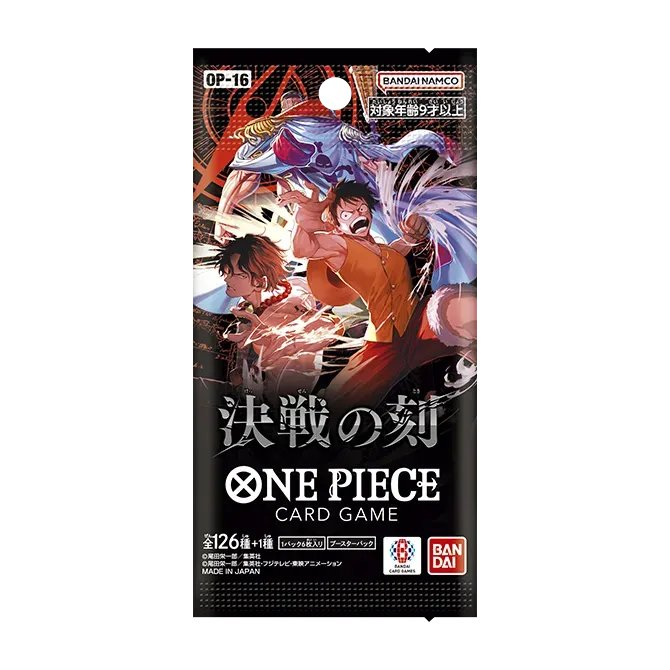
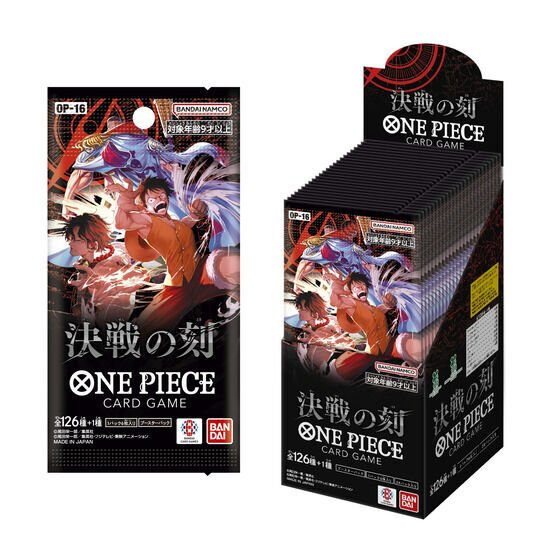
ワンピ版: プレミアムバンダイ公式CDNから箱+パック画像を追加(計7弾)
CDP接続した実Chrome経由でp-bandaiのBOT検出を回避し商品IDを特定→公式CDN
(bandai-a.akamaihd.net)から透かし無しの箱+パック画像を直接取得。
取得済み: OP-16/OP-13/OP-09/OP-06/EB-03/EB-01(p-bandai) + ST-30(公式)の7弾。
OP-16は公式パック単体からp-bandaiの箱+パック版に差し替え。
個別BOXページ・記事heroに反映(画像がある弾のみ)。p-bandaiは現行の抽選/予約弾のみ
掲載で旧弾は無いため、残り16弾は別ソース(手動/Amazon等)が必要。

diff --git a/onepiece/weekly.html b/onepiece/weekly.html
@@ -34,7 +34,7 @@ th{background:#f9fafb}
 <div class="header"><a href="/onepiece"><h1>ワンピ買取チェッカー</h1></a></div>
 <div class="wrap">
 <h2>📊 ワンピBOX 週間値動きランキング</h2>
-<div class="upd">更新: 2026/07/15 05:58 ／ 7日前比・最大11店舗の最高買取価格ベース</div>
+<div class="upd">更新: 2026/07/15 09:13 ／ 7日前比・最大11店舗の最高買取価格ベース</div>
 <table style="width:100%;border-collapse:collapse;font-size:14px"><tr style="background:#f9fafb"><th style="padding:9px;border:1px solid #e5e7eb">#</th><th style="padding:9px;border:1px solid #e5e7eb">商品名</th><th style="padding:9px;border:1px solid #e5e7eb">現在の最高値</th><th style="padding:9px;border:1px solid #e5e7eb">週間変化</th><th style="padding:9px;border:1px solid #e5e7eb">変化率</th></tr><tr><td style="padding:9px;border:1px solid #e5e7eb;text-align:center">1</td><td style="padding:9px;border:1px solid #e5e7eb;text-align:left"><a href="box/op-16.html" style="color:#e53935;text-decoration:none">ブースターパック「決戦の刻」【OP-16】</a></td><td style="padding:9px;border:1px solid #e5e7eb;text-align:center">¥14,000</td><td style="padding:9px;border:1px solid #e5e7eb;text-align:center;color:#6b7280;font-weight:700">-</td><td style="padding:9px;border:1px solid #e5e7eb;text-align:center;color:#6b7280;font-weight:700">0.0%</td></tr><tr><td style="padding:9px;border:1px solid #e5e7eb;text-align:center">2</td><td style="padding:9px;border:1px solid #e5e7eb;text-align:left"><a href="box/op-15.html" style="color:#e53935;text-decoration:none">ブースターパック「神の島の冒険」【OP-15】</a></td><td style="padding:9px;border:1px solid #e5e7eb;text-align:center">¥16,800</td><td style="padding:9px;border:1px solid #e5e7eb;text-align:center;color:#6b7280;font-weight:700">-</td><td style="padding:9px;border:1px solid #e5e7eb;text-align:center;color:#6b7280;font-weight:700">0.0%</td></tr><tr><td style="padding:9px;border:1px solid #e5e7eb;text-align:center">3</td><td style="padding:9px;border:1px solid #e5e7eb;text-align:left"><a href="box/op-14.html" style="color:#e53935;text-decoration:none">ブースターパック「蒼海の七傑」【OP-14】</a></td><td style="padding:9px;border:1px solid #e5e7eb;text-align:center">¥16,300</td><td style="padding:9px;border:1px solid #e5e7eb;text-align:center;color:#6b7280;font-weight:700">-</td><td style="padding:9px;border:1px solid #e5e7eb;text-align:center;color:#6b7280;font-weight:700">0.0%</td></tr><tr><td style="padding:9px;border:1px solid #e5e7eb;text-align:center">4</td><td style="padding:9px;border:1px solid #e5e7eb;text-align:left"><a href="box/op-13.html" style="color:#e53935;text-decoration:none">ブースターパック「受け継がれる意志」【OP-13】</a></td><td style="padding:9px;border:1px solid #e5e7eb;text-align:center">¥23,000</td><td style="padding:9px;border:1px solid #e5e7eb;text-align:center;color:#6b7280;font-weight:700">-</td><td style="padding:9px;border:1px solid #e5e7eb;text-align:center;color:#6b7280;font-weight:700">0.0%</td></tr><tr><td style="padding:9px;border:1px solid #e5e7eb;text-align:center">5</td><td style="padding:9px;border:1px solid #e5e7eb;text-align:left"><a href="box/op-12.html" style="color:#e53935;text-decoration:none">ブースターパック「師弟の絆」【OP-12】</a></td><td style="padding:9px;border:1px solid #e5e7eb;text-align:center">¥17,800</td><td style="padding:9px;border:1px solid #e5e7eb;text-align:center;color:#6b7280;font-weight:700">-</td><td style="padding:9px;border:1px solid #e5e7eb;text-align:center;color:#6b7280;font-weight:700">0.0%</td></tr><tr><td style="padding:9px;border:1px solid #e5e7eb;text-align:center">6</td><td style="padding:9px;border:1px solid #e5e7eb;text-align:left"><a href="box/op-11.html" style="color:#e53935;text-decoration:none">ブースターパック「神速の拳」【OP-11】</a></td><td style="padding:9px;border:1px solid #e5e7eb;text-align:center">¥39,000</td><td style="padding:9px;border:1px solid #e5e7eb;text-align:center;color:#6b7280;font-weight:700">-</td><td style="padding:9px;border:1px solid #e5e7eb;text-align:center;color:#6b7280;font-weight:700">0.0%</td></tr><tr><td style="padding:9px;border:1px solid #e5e7eb;text-align:center">7</td><td style="padding:9px;border:1px solid #e5e7eb;text-align:left"><a href="box/op-10.html" style="color:#e53935;text-decoration:none">ブースターパック「王族の血統」【OP-10】</a></td><td style="padding:9px;border:1px solid #e5e7eb;text-align:center">¥12,000</td><td style="padding:9px;border:1px solid #e5e7eb;text-align:center;color:#6b7280;font-weight:700">-</td><td style="padding:9px;border:1px solid #e5e7eb;text-align:center;color:#6b7280;font-weight:700">0.0%</td></tr><tr><td style="padding:9px;border:1px solid #e5e7eb;text-align:center">8</td><td style="padding:9px;border:1px solid #e5e7eb;text-align:left"><a href="box/op-09.html" style="color:#e53935;text-decoration:none">ブースターパック「新たなる皇帝」【OP-09】</a></td><td style="padding:9px;border:1px solid #e5e7eb;text-align:center">¥22,800</td><td style="padding:9px;border:1px solid #e5e7eb;text-align:center;color:#6b7280;font-weight:700">-</td><td style="padding:9px;border:1px solid #e5e7eb;text-align:center;color:#6b7280;font-weight:700">0.0%</td></tr><tr><td style="padding:9px;border:1px solid #e5e7eb;text-align:center">9</td><td style="padding:9px;border:1px solid #e5e7eb;text-align:left"><a href="box/op-08.html" style="color:#e53935;text-decoration:none">ブースターパック「二つの伝説」【OP-08】</a></td><td style="padding:9px;border:1px solid #e5e7eb;text-align:center">¥11,000</td><td style="padding:9px;border:1px solid #e5e7eb;text-align:center;color:#6b7280;font-weight:700">-</td><td style="padding:9px;border:1px solid #e5e7eb;text-align:center;color:#6b7280;font-weight:700">0.0%</td></tr><tr><td style="padding:9px;border:1px solid #e5e7eb;text-align:center">10</td><td style="padding:9px;border:1px solid #e5e7eb;text-align:left"><a href="box/op-07.html" style="color:#e53935;text-decoration:none">ブースターパック「500年後の未来」【OP-07】</a></td><td style="padding:9px;border:1px solid #e5e7eb;text-align:center">¥20,000</td><td style="padding:9px;border:1px solid #e5e7eb;text-align:center;color:#6b7280;font-weight:700">-</td><td style="padding:9px;border:1px solid #e5e7eb;text-align:center;color:#6b7280;font-weight:700">0.0%</td></tr><tr><td style="padding:9px;border:1px solid #e5e7eb;text-align:center">11</td><td style="padding:9px;border:1px solid #e5e7eb;text-align:left"><a href="box/op-06.html" style="color:#e53935;text-decoration:none">ブースターパック「双璧の覇者」【OP-06】</a></td><td style="padding:9px;border:1px solid #e5e7eb;text-align:center">¥23,200</td><td style="padding:9px;border:1px solid #e5e7eb;text-align:center;color:#6b7280;font-weight:700">-</td><td style="padding:9px;border:1px solid #e5e7eb;text-align:center;color:#6b7280;font-weight:700">0.0%</td></tr><tr><td style="padding:9px;border:1px solid #e5e7eb;text-align:center">12</td><td style="padding:9px;border:1px solid #e5e7eb;text-align:left"><a href="box/op-05.html" style="color:#e53935;text-decoration:none">ブースターパック「新時代の主役」【OP-05】</a></td><td style="padding:9px;border:1px solid #e5e7eb;text-align:center">¥64,800</td><td style="padding:9px;border:1px solid #e5e7eb;text-align:center;color:#6b7280;font-weight:700">-</td><td style="padding:9px;border:1px solid #e5e7eb;text-align:center;color:#6b7280;font-weight:700">0.0%</td></tr><tr><td style="padding:9px;border:1px solid #e5e7eb;text-align:center">13</td><td style="padding:9px;border:1px solid #e5e7eb;text-align:left"><a href="box/op-04.html" style="color:#e53935;text-decoration:none">ブースターパック「謀略の王国」【OP-04】</a></td><td style="padding:9px;border:1px solid #e5e7eb;text-align:center">¥21,000</td><td style="padding:9px;border:1px solid #e5e7eb;text-align:center;color:#6b7280;font-weight:700">-</td><td style="padding:9px;border:1px solid #e5e7eb;text-align:center;color:#6b7280;font-weight:700">0.0%</td></tr><tr><td style="padding:9px;border:1px solid #e5e7eb;text-align:center">14</td><td style="padding:9px;border:1px solid #e5e7eb;text-align:left"><a href="box/op-03.html" style="color:#e53935;text-decoration:none">ブースターパック「強大な敵」【OP-03】</a></td><td style="padding:9px;border:1px solid #e5e7eb;text-align:center">¥18,700</td><td style="padding:9px;border:1px solid #e5e7eb;text-align:center;color:#6b7280;font-weight:700">-</td><td style="padding:9px;border:1px solid #e5e7eb;text-align:center;color:#6b7280;font-weight:700">0.0%</td></tr><tr><td style="padding:9px;border:1px solid #e5e7eb;text-align:center">15</td><td style="padding:9px;border:1px solid #e5e7eb;text-align:left"><a href="box/op-02.html" style="color:#e53935;text-decoration:none">ブースターパック「頂上決戦」【OP-02】</a></td><td style="padding:9px;border:1px solid #e5e7eb;text-align:center">¥25,200</td><td style="padding:9px;border:1px solid #e5e7eb;text-align:center;color:#6b7280;font-weight:700">-</td><td style="padding:9px;border:1px solid #e5e7eb;text-align:center;color:#6b7280;font-weight:700">0.0%</td></tr><tr><td style="padding:9px;border:1px solid #e5e7eb;text-align:center">16</td><td style="padding:9px;border:1px solid #e5e7eb;text-align:left"><a href="box/op-01.html" style="color:#e53935;text-decoration:none">ブースターパック「ROMANCE DAWN」【OP-01】</a></td><td style="padding:9px;border:1px solid #e5e7eb;text-align:center">¥41,500</td><td style="padding:9px;border:1px solid #e5e7eb;text-align:center;color:#6b7280;font-weight:700">-</td><td style="padding:9px;border:1px solid #e5e7eb;text-align:center;color:#6b7280;font-weight:700">0.0%</td></tr><tr><td style="padding:9px;border:1px solid #e5e7eb;text-align:center">17</td><td style="padding:9px;border:1px solid #e5e7eb;text-align:left"><a href="box/eb-04.html" style="color:#e53935;text-decoration:none">エクストラブースター「EGGHEAD CRISIS」【EB-04】</a></td><td style="padding:9px;border:1px solid #e5e7eb;text-align:center">¥14,500</td><td style="padding:9px;border:1px solid #e5e7eb;text-align:center;color:#6b7280;font-weight:700">-</td><td style="padding:9px;border:1px solid #e5e7eb;text-align:center;color:#6b7280;font-weight:700">0.0%</td></tr><tr><td style="padding:9px;border:1px solid #e5e7eb;text-align:center">18</td><td style="padding:9px;border:1px solid #e5e7eb;text-align:left"><a href="box/eb-03.html" style="color:#e53935;text-decoration:none">エクストラブースター「ONE PIECE Heroines Edition」【EB-03】</a></td><td style="padding:9px;border:1px solid #e5e7eb;text-align:center">¥23,000</td><td style="padding:9px;border:1px solid #e5e7eb;text-align:center;color:#6b7280;font-weight:700">-</td><td style="padding:9px;border:1px solid #e5e7eb;text-align:center;color:#6b7280;font-weight:700">0.0%</td></tr><tr><td style="padding:9px;border:1px solid #e5e7eb;text-align:center">19</td><td style="padding:9px;border:1px solid #e5e7eb;text-align:left"><a href="box/eb-02.html" style="color:#e53935;text-decoration:none">エクストラブースター「Anime 25th collection」【EB-02】</a></td><td style="padding:9px;border:1px solid #e5e7eb;text-align:center">¥38,000</td><td style="padding:9px;border:1px solid #e5e7eb;text-align:center;color:#6b7280;font-weight:700">-</td><td style="padding:9px;border:1px solid #e5e7eb;text-align:center;color:#6b7280;font-weight:700">0.0%</td></tr><tr><td style="padding:9px;border:1px solid #e5e7eb;text-align:center">20</td><td style="padding:9px;border:1px solid #e5e7eb;text-align:left"><a href="box/eb-01.html" style="color:#e53935;text-decoration:none">エクストラブースター「メモリアルコレクション」【EB-01】</a></td><td style="padding:9px;border:1px solid #e5e7eb;text-align:center">¥23,000</td><td style="padding:9px;border:1px solid #e5e7eb;text-align:center;color:#6b7280;font-weight:700">-</td><td style="padding:9px;border:1px solid #e5e7eb;text-align:center;color:#6b7280;font-weight:700">0.0%</td></tr><tr><td style="padding:9px;border:1px solid #e5e7eb;text-align:center">21</td><td style="padding:9px;border:1px solid #e5e7eb;text-align:left"><a href="box/prb-02.html" style="color:#e53935;text-decoration:none">プレミアムブースター「ONE PIECE CARD THE BEST vol.2」【PRB-02】</a></td><td style="padding:9px;border:1px solid #e5e7eb;text-align:center">¥11,600</td><td style="padding:9px;border:1px solid #e5e7eb;text-align:center;color:#6b7280;font-weight:700">-</td><td style="padding:9px;border:1px solid #e5e7eb;text-align:center;color:#6b7280;font-weight:700">0.0%</td></tr><tr><td style="padding:9px;border:1px solid #e5e7eb;text-align:center">22</td><td style="padding:9px;border:1px solid #e5e7eb;text-align:left"><a href="box/prb-01.html" style="color:#e53935;text-decoration:none">プレミアムブースター「ONE PIECE CARD THE BEST」【PRB-01】</a></td><td style="padding:9px;border:1px solid #e5e7eb;text-align:center">¥21,700</td><td style="padding:9px;border:1px solid #e5e7eb;text-align:center;color:#6b7280;font-weight:700">-</td><td style="padding:9px;border:1px solid #e5e7eb;text-align:center;color:#6b7280;font-weight:700">0.0%</td></tr><tr><td style="padding:9px;border:1px solid #e5e7eb;text-align:center">23</td><td style="padding:9px;border:1px solid #e5e7eb;text-align:left"><a href="box/st-30.html" style="color:#e53935;text-decoration:none">スタートデッキEX ルフィ＆エース【ST-30】</a></td><td style="padding:9px;border:1px solid #e5e7eb;text-align:center">¥11,000</td><td style="padding:9px;border:1px solid #e5e7eb;text-align:center;color:#6b7280;font-weight:700">-</td><td style="padding:9px;border:1px solid #e5e7eb;text-align:center;color:#6b7280;font-weight:700">0.0%</td></tr></table>
 <a class="back" href="weekly/index.html">📚 過去の週間値動き記事アーカイブ</a>
 <a class="back" href="/onepiece">← ワンピ買取比較に戻る</a>

diff --git a/onepiece/op-09-atari-guide.html b/onepiece/op-09-atari-guide.html
@@ -186,7 +186,7 @@ article li{margin-bottom:8px}
 <h1>【2026年7月最新】ワンピカード「新たなる皇帝」(OP-09)当たりカードランキング｜ロジャー金コミパラの買取相場・封入率を完全ガイド</h1>
 <div class="meta">公開: 2026年7月14日 / ONE PIECEカードゲーム ブースターパック「新たなる皇帝」(OP-09・2024年8月31日発売) / ワンピ買取チェッカー編集部</div>
 
-<div class="hero"><div class="stat-label">看板当たり ゴール・D・ロジャー ゴールドコミックパラレル 買取相場(2026年7月時点)</div><div class="stat-big">約¥550,000</div><div class="stat-sub">2位 モンキー・D・ルフィ コミパラ 約¥250,000 / 3位 マーシャル・D・ティーチ コミパラ 約¥150,000 / 初のゴールド仕様・72BOXに約1枚 / BOX定価¥5,280 / <a href="box/op-09.html" style="color:#b91c1c;font-weight:700">当サイト実データのBOX買取最高¥22,800(9店舗)</a></div></div>
+<div class="hero" style="display:flex;gap:18px;align-items:center"><picture><source srcset="/images/boxes/op-09.webp" type="image/webp"><img src="/images/boxes/op-09.jpg" alt="ブースターパック「新たなる皇帝」(OP-09) パッケージ画像" width="150" height="150" loading="eager" decoding="async" style="width:130px;height:auto;border-radius:8px;flex-shrink:0"></picture><div><div class="stat-label">看板当たり ゴール・D・ロジャー ゴールドコミックパラレル 買取相場(2026年7月時点)</div><div class="stat-big">約¥550,000</div><div class="stat-sub">2位 モンキー・D・ルフィ コミパラ 約¥250,000 / 3位 マーシャル・D・ティーチ コミパラ 約¥150,000 / 初のゴールド仕様・72BOXに約1枚 / BOX定価¥5,280 / <a href="box/op-09.html" style="color:#b91c1c;font-weight:700">当サイト実データのBOX買取最高¥22,800(9店舗)</a></div></div></div>
 
 <p>2024年8月31日発売の <strong><a href="box/op-09.html" style="color:var(--accent)">ブースターパック「新たなる皇帝」(OP-09)</a></strong> は、2周年を記念し、新四皇のコミパラが一挙4種、さらにゴール・D・ロジャーのゴールドコミパラが登場した通常ブースター第9弾です。本記事では、<strong>当たりカードのランキング・買取相場・封入率・見分け方</strong>を、複数ソースと当サイトの実データをもとに整理します。BOXの最新買取価格は <a href="box/op-09.html">新たなる皇帝 個別ページ</a> で毎日更新しています。</p><h2>新たなる皇帝(OP-09)とは｜基本情報</h2><ul><li><strong>発売日</strong>: 2024年8月31日</li><li><strong>定価</strong>: 1BOX ¥5,280(税込) / 1パック6枚・24パック入り</li><li><strong>型番</strong>: OP-09(通常ブースター第9弾)</li><li><strong>看板(最高額)</strong>: ゴール・D・ロジャー ゴールドコミックパラレル</li><li><strong>現在のBOX買取相場</strong>: 当サイト実データで最高¥22,800(9店舗掲載・2026年7月時点)</li></ul><p>初のゴールド仕様である海賊王ロジャーのコミパラが別格で、新四皇のコミパラも高額に揃う豪華弾です。</p><h2>当たりカードランキング｜買取相場の目安(2026年7月時点)</h2><table class="price-table"><thead><tr><th>順位</th><th>カード名</th><th>レアリティ</th><th style="text-align:right">買取相場の目安</th></tr></thead><tbody><tr class="best"><td>1位</td><td>ゴール・D・ロジャー</td><td>ゴールドコミックパラレル</td><td class="price">約¥550,000</td></tr><tr><td>2位</td><td>モンキー・D・ルフィ</td><td>コミックパラレル</td><td class="price">約¥250,000</td></tr><tr><td>3位</td><td>マーシャル・D・ティーチ</td><td>コミックパラレル</td><td class="price">約¥150,000</td></tr><tr><td>4位</td><td>シャンクス</td><td>コミックパラレル</td><td class="price">約¥120,000</td></tr><tr><td>5位</td><td>ゴール・D・ロジャー</td><td>SP</td><td class="price">約¥15,000</td></tr></tbody></table><p>※相場は需給で日々変動します。BOX価格の最新値は<a href="box/op-09.html">新たなる皇帝 個別ページ</a>で毎日追っています。</p><h2>看板当たり「ゴール・D・ロジャー ゴールドコミックパラレル」</h2><p>初のゴールド仕様・封入極小の <strong>ロジャー ゴールドコミパラ</strong> は別格の存在で、買取相場は <strong>約¥550,000前後(目安32〜80万円と幅が大きい)</strong>。海賊王の人気と超低封入が重なった一枚です。</p><h2>封入率まとめ</h2><ul><li><strong>コミックパラレル(全5種)</strong>: おおよそ6カートン(約72BOX)に約1枚</li><li><strong>ロジャー ゴールドコミパラ</strong>: さらに希少な72BOXに約1枚級の超低封入</li><li><strong>SP・パラレル</strong>: 一定数封入</li></ul><p>※封入率はカードショップ等の大量開封報告に基づく推定値で、公式発表ではありません。新四皇コミパラ4種＋ロジャー金と高額枠が多く、狙いの1種の自引きは困難です。</p><h2>当たりの見分け方｜開封のポイント</h2><div class="callout"><strong>結論:</strong> パックは外から中身を見分ける方法は基本的にありません。パックの重さでの判別は不確実で、<strong>店頭での測定はマナー違反</strong>です。</div><p>開封後は、<strong>ゴールド/通常のコミックパラレル(漫画のコマ風の全面イラスト)・SP</strong>でレアリティを判別します。看板のゴール・D・ロジャー ゴールドコミックパラレルなどに該当するかを、カードのレアリティ表記とあわせて確認しましょう。</p><h2>開封すべき？BOX開封の期待値と注意点</h2><p>ロジャー金コミパラや新四皇コミパラは超高額な一方、封入率は約72BOXに1枚の狭き門です。未開封BOXの買取相場は当サイト実データで <strong>最高¥22,800（定価¥5,280の約4.3倍）</strong> です。確実に価値を取りたいなら <a href="box/op-09.html">最高値の買取店で未開封のまま売る</a> のが堅実。自引きの夢に賭けて開封を楽しむか、未開封で確実に利益を取るかを踏まえて判断しましょう。</p>
 

diff --git a/onepiece/eb-01-atari-guide.html b/onepiece/eb-01-atari-guide.html
@@ -186,7 +186,7 @@ article li{margin-bottom:8px}
 <h1>【2026年7月最新】ワンピカード「メモリアルコレクション」(EB-01)当たりカードランキング｜チョッパー コミパラの買取相場・封入率を完全ガイド</h1>
 <div class="meta">公開: 2026年7月14日 / ONE PIECEカードゲーム エクストラブースター「メモリアルコレクション」(EB-01・2024年1月27日発売) / ワンピ買取チェッカー編集部</div>
 
-<div class="hero"><div class="stat-label">看板当たり トニートニー・チョッパー コミックパラレル 買取相場(2026年7月時点)</div><div class="stat-big">約¥100,000</div><div class="stat-sub">唯一のコミパラ(チョッパー1種)自引き約0.85%(117BOXに1枚) / 2位 しらほし SR-P 約¥6,000 / 3位 Mr.2ボン・クレー SEC 約¥5,000 / BOX定価¥5,280 / <a href="box/eb-01.html" style="color:#b91c1c;font-weight:700">当サイト実データのBOX買取最高¥23,000(9店舗)</a></div></div>
+<div class="hero" style="display:flex;gap:18px;align-items:center"><picture><source srcset="/images/boxes/eb-01.webp" type="image/webp"><img src="/images/boxes/eb-01.jpg" alt="エクストラブースター「メモリアルコレクション」(EB-01) パッケージ画像" width="150" height="150" loading="eager" decoding="async" style="width:130px;height:auto;border-radius:8px;flex-shrink:0"></picture><div><div class="stat-label">看板当たり トニートニー・チョッパー コミックパラレル 買取相場(2026年7月時点)</div><div class="stat-big">約¥100,000</div><div class="stat-sub">唯一のコミパラ(チョッパー1種)自引き約0.85%(117BOXに1枚) / 2位 しらほし SR-P 約¥6,000 / 3位 Mr.2ボン・クレー SEC 約¥5,000 / BOX定価¥5,280 / <a href="box/eb-01.html" style="color:#b91c1c;font-weight:700">当サイト実データのBOX買取最高¥23,000(9店舗)</a></div></div></div>
 
 <p>2024年1月27日発売の <strong><a href="box/eb-01.html" style="color:var(--accent)">エクストラブースター「メモリアルコレクション」(EB-01)</a></strong> は、初のエクストラブースターで、トニートニー・チョッパーのコミパラが唯一の高額枠となった再録系ブースターです。本記事では、<strong>当たりカードのランキング・買取相場・封入率・見分け方</strong>を、複数ソースと当サイトの実データをもとに整理します。BOXの最新買取価格は <a href="box/eb-01.html">メモリアルコレクション 個別ページ</a> で毎日更新しています。</p><h2>メモリアルコレクション(EB-01)とは｜基本情報</h2><ul><li><strong>発売日</strong>: 2024年1月27日</li><li><strong>定価</strong>: 1BOX ¥5,280(税込)</li><li><strong>型番</strong>: EB-01(エクストラブースター第1弾)</li><li><strong>看板(最高額)</strong>: トニートニー・チョッパー コミックパラレル</li><li><strong>現在のBOX買取相場</strong>: 当サイト実データで最高¥23,000(9店舗掲載・2026年7月時点)</li></ul><p>初のエクストラブースターで、唯一のコミパラであるチョッパーが実質的なトップレア。人気キャラで相場も高めです。</p><h2>当たりカードランキング｜買取相場の目安(2026年7月時点)</h2><table class="price-table"><thead><tr><th>順位</th><th>カード名</th><th>レアリティ</th><th style="text-align:right">買取相場の目安</th></tr></thead><tbody><tr class="best"><td>1位</td><td>トニートニー・チョッパー</td><td>コミックパラレル(SP)</td><td class="price">約¥100,000</td></tr><tr><td>2位</td><td>しらほし</td><td>SR-P</td><td class="price">約¥6,000</td></tr><tr><td>3位</td><td>Mr.2ボン・クレー</td><td>SEC</td><td class="price">約¥5,000</td></tr><tr><td>4位</td><td>トニートニー・チョッパー</td><td>リーダーパラレル</td><td class="price">約¥4,000</td></tr><tr><td>5位</td><td>ナミ</td><td>パラレル</td><td class="price">約¥2,500</td></tr></tbody></table><p>※相場は需給で日々変動します。BOX価格の最新値は<a href="box/eb-01.html">メモリアルコレクション 個別ページ</a>で毎日追っています。</p><h2>看板当たり「トニートニー・チョッパー コミックパラレル」</h2><p>実質チョッパー一強の高額枠 <strong>チョッパー コミックパラレル</strong> は、買取相場 <strong>約¥100,000前後(初動は10万円超・変動大)</strong>。人気キャラで需要が安定します。</p><h2>封入率まとめ</h2><ul><li><strong>コミックパラレル(チョッパー1種)</strong>: おおよそ約0.85%(約117BOXに1枚)</li><li><strong>リーダーパラレル</strong>: おおよそ約14.58%(約6.9BOXに1枚)</li><li><strong>SEC・SR-P</strong>: 一定数封入</li></ul><p>※封入率はカードショップ等の大量開封報告に基づく推定値で、公式発表ではありません。コミパラはチョッパー1種のため、自引き確率がそのまま約0.85%です。</p><h2>当たりの見分け方｜開封のポイント</h2><div class="callout"><strong>結論:</strong> パックは外から中身を見分ける方法は基本的にありません。パックの重さでの判別は不確実で、<strong>店頭での測定はマナー違反</strong>です。</div><p>開封後は、<strong>コミックパラレル(漫画のコマ風の全面イラスト)・SEC/SR-P</strong>でレアリティを判別します。看板のトニートニー・チョッパー コミックパラレルなどに該当するかを、カードのレアリティ表記とあわせて確認しましょう。</p><h2>開封すべき？BOX開封の期待値と注意点</h2><p>チョッパー コミパラは唯一の高額枠で低封入。再録系のため他のカードは相場が読みやすい面もあります。未開封BOXの買取相場は当サイト実データで <strong>最高¥23,000（定価¥5,280の約4.4倍）</strong> です。確実に価値を取りたいなら <a href="box/eb-01.html">最高値の買取店で未開封のまま売る</a> のが堅実。自引きの夢に賭けて開封を楽しむか、未開封で確実に利益を取るかを踏まえて判断しましょう。</p>
 

diff --git a/onepiece/op-06-atari-guide.html b/onepiece/op-06-atari-guide.html
@@ -186,7 +186,7 @@ article li{margin-bottom:8px}
 <h1>【2026年7月最新】ワンピカード「双璧の覇者」(OP-06)当たりカードランキング｜ゾロ コミパラの買取相場・封入率を完全ガイド</h1>
 <div class="meta">公開: 2026年7月14日 / ONE PIECEカードゲーム ブースターパック「双璧の覇者」(OP-06・2023年11月25日発売) / ワンピ買取チェッカー編集部</div>
 
-<div class="hero"><div class="stat-label">看板当たり ロロノア・ゾロ コミックパラレル 買取相場(2026年7月時点)</div><div class="stat-big">約¥250,000</div><div class="stat-sub">2位 レベッカ SP 約¥13,500 / 3位 ニコ・ロビン SP 約¥12,000 / 麦わら双璧の看板コミパラ / BOX定価¥5,280 / <a href="box/op-06.html" style="color:#b91c1c;font-weight:700">当サイト実データのBOX買取最高¥23,200(8店舗)</a></div></div>
+<div class="hero" style="display:flex;gap:18px;align-items:center"><picture><source srcset="/images/boxes/op-06.webp" type="image/webp"><img src="/images/boxes/op-06.jpg" alt="ブースターパック「双璧の覇者」(OP-06) パッケージ画像" width="150" height="150" loading="eager" decoding="async" style="width:130px;height:auto;border-radius:8px;flex-shrink:0"></picture><div><div class="stat-label">看板当たり ロロノア・ゾロ コミックパラレル 買取相場(2026年7月時点)</div><div class="stat-big">約¥250,000</div><div class="stat-sub">2位 レベッカ SP 約¥13,500 / 3位 ニコ・ロビン SP 約¥12,000 / 麦わら双璧の看板コミパラ / BOX定価¥5,280 / <a href="box/op-06.html" style="color:#b91c1c;font-weight:700">当サイト実データのBOX買取最高¥23,200(8店舗)</a></div></div></div>
 
 <p>2023年11月25日発売の <strong><a href="box/op-06.html" style="color:var(--accent)">ブースターパック「双璧の覇者」(OP-06)</a></strong> は、麦わらの一味の両翼「ゾロ」と「サンジ」をテーマにした通常ブースター第6弾です。本記事では、<strong>当たりカードのランキング・買取相場・封入率・見分け方</strong>を、複数ソースと当サイトの実データをもとに整理します。BOXの最新買取価格は <a href="box/op-06.html">双璧の覇者 個別ページ</a> で毎日更新しています。</p><h2>双璧の覇者(OP-06)とは｜基本情報</h2><ul><li><strong>発売日</strong>: 2023年11月25日</li><li><strong>定価</strong>: 1BOX ¥5,280(税込) / 1パック6枚・24パック入り</li><li><strong>型番</strong>: OP-06(通常ブースター第6弾)</li><li><strong>看板(最高額)</strong>: ロロノア・ゾロ コミックパラレル</li><li><strong>現在のBOX買取相場</strong>: 当サイト実データで最高¥23,200(8店舗掲載・2026年7月時点)</li></ul><p>麦わら双璧の看板であるゾロのコミパラは弾のトップレアで、絶版化もあり高値で推移しています。</p><h2>当たりカードランキング｜買取相場の目安(2026年7月時点)</h2><table class="price-table"><thead><tr><th>順位</th><th>カード名</th><th>レアリティ</th><th style="text-align:right">買取相場の目安</th></tr></thead><tbody><tr class="best"><td>1位</td><td>ロロノア・ゾロ</td><td>コミックパラレル(SP)</td><td class="price">約¥250,000</td></tr><tr><td>2位</td><td>レベッカ</td><td>SP</td><td class="price">約¥13,500</td></tr><tr><td>3位</td><td>ニコ・ロビン</td><td>SP</td><td class="price">約¥12,000</td></tr><tr><td>4位</td><td>ロロノア・ゾロ</td><td>リーダーパラレル</td><td class="price">約¥6,000</td></tr><tr><td>5位</td><td>サンジ</td><td>パラレル</td><td class="price">約¥4,000</td></tr></tbody></table><p>※相場は需給で日々変動します。BOX価格の最新値は<a href="box/op-06.html">双璧の覇者 個別ページ</a>で毎日追っています。</p><h2>看板当たり「ロロノア・ゾロ コミックパラレル」</h2><p>麦わら双璧の看板 <strong>ゾロ コミックパラレル</strong> は、買取相場 <strong>約¥250,000前後(目安18〜29.8万円)</strong> で弾トップ。剣士ゾロの高い人気を反映した相場です。</p><h2>封入率まとめ</h2><ul><li><strong>コミックパラレル(ゾロ)</strong>: 最希少級の超低封入</li><li><strong>SP</strong>: 描き下ろし枠として一定数封入</li><li><strong>リーダーパラレル・パラレル</strong>: 一定数封入</li></ul><p>※封入率はカードショップ等の大量開封報告に基づく推定値で、公式発表ではありません。ゾロ コミパラは極めて低い封入率とされます。</p><h2>当たりの見分け方｜開封のポイント</h2><div class="callout"><strong>結論:</strong> パックは外から中身を見分ける方法は基本的にありません。パックの重さでの判別は不確実で、<strong>店頭での測定はマナー違反</strong>です。</div><p>開封後は、<strong>コミックパラレル(漫画のコマ風の全面イラスト)・SP(描き下ろし)</strong>でレアリティを判別します。看板のロロノア・ゾロ コミックパラレルなどに該当するかを、カードのレアリティ表記とあわせて確認しましょう。</p><h2>開封すべき？BOX開封の期待値と注意点</h2><p>ゾロ コミパラは超高額な一方、封入率は極めて低い狭き門です。絶版BOXのため未開封の価値も高めです。未開封BOXの買取相場は当サイト実データで <strong>最高¥23,200（定価¥5,280の約4.4倍）</strong> です。確実に価値を取りたいなら <a href="box/op-06.html">最高値の買取店で未開封のまま売る</a> のが堅実。自引きの夢に賭けて開封を楽しむか、未開封で確実に利益を取るかを踏まえて判断しましょう。</p>
 

diff --git a/onepiece/op-13-atari-guide.html b/onepiece/op-13-atari-guide.html
@@ -186,7 +186,7 @@ article li{margin-bottom:8px}
 <h1>【2026年7月最新】ワンピカード「受け継がれる意志」(OP-13)当たりカードランキング｜ルフィ レッドコミパラの買取相場・封入率を完全ガイド</h1>
 <div class="meta">公開: 2026年7月14日 / ONE PIECEカードゲーム ブースターパック「受け継がれる意志」(OP-13・2025年8月23日発売) / ワンピ買取チェッカー編集部</div>
 
-<div class="hero"><div class="stat-label">看板当たり モンキー・D・ルフィ レッドコミパラ 買取相場(2026年7月時点)</div><div class="stat-big">約¥1,700,000</div><div class="stat-sub">2位 ポートガス・D・エース レッドコミパラ 約¥600,000 / 3位 サボ レッドコミパラ 約¥380,000 / 新レア「レッドスーパーパラレル」登場・ゴッドパック収録 / BOX定価¥5,280 / <a href="box/op-13.html" style="color:#b91c1c;font-weight:700">当サイト実データのBOX買取最高¥23,000(9店舗)</a></div></div>
+<div class="hero" style="display:flex;gap:18px;align-items:center"><picture><source srcset="/images/boxes/op-13.webp" type="image/webp"><img src="/images/boxes/op-13.jpg" alt="ブースターパック「受け継がれる意志」(OP-13) パッケージ画像" width="150" height="150" loading="eager" decoding="async" style="width:130px;height:auto;border-radius:8px;flex-shrink:0"></picture><div><div class="stat-label">看板当たり モンキー・D・ルフィ レッドコミパラ 買取相場(2026年7月時点)</div><div class="stat-big">約¥1,700,000</div><div class="stat-sub">2位 ポートガス・D・エース レッドコミパラ 約¥600,000 / 3位 サボ レッドコミパラ 約¥380,000 / 新レア「レッドスーパーパラレル」登場・ゴッドパック収録 / BOX定価¥5,280 / <a href="box/op-13.html" style="color:#b91c1c;font-weight:700">当サイト実データのBOX買取最高¥23,000(9店舗)</a></div></div></div>
 
 <p>2025年8月23日発売の <strong><a href="box/op-13.html" style="color:var(--accent)">ONE PIECEカードゲーム ブースターパック「受け継がれる意志」(OP-13)</a></strong> は、3周年を記念した通常ブースター第13弾です。新レアリティ<strong>「レッドスーパーパラレル(レッドコミパラ)」</strong>が登場し、ルフィ・エース・サボの"ASL兄弟"が超高額カードとして君臨しています。さらに、まれに封入される<strong>「ゴッドパック」</strong>も大きな話題となりました。本記事では、<strong>当たりカードのランキング・買取相場・封入率・見分け方</strong>を実データで整理します。BOXの最新買取価格は <a href="box/op-13.html">受け継がれる意志 個別ページ</a> で毎日更新しています。</p>
 

diff --git a/onepiece/eb-03-atari-guide.html b/onepiece/eb-03-atari-guide.html
@@ -186,7 +186,7 @@ article li{margin-bottom:8px}
 <h1>【2026年7月最新】ワンピカード「ONE PIECE Heroines Edition」(EB-03)当たりカードランキング｜ウタ コミパラの買取相場・封入率を完全ガイド</h1>
 <div class="meta">公開: 2026年7月14日 / ONE PIECEカードゲーム エクストラブースター「ONE PIECE Heroines Edition」(EB-03・2025年10月25日発売) / ワンピ買取チェッカー編集部</div>
 
-<div class="hero"><div class="stat-label">看板当たり ウタ SEC コミックパラレル 買取相場(2026年7月時点)</div><div class="stat-big">約¥70,000</div><div class="stat-sub">唯一のコミパラ(ウタ1種)6カートンに1枚 / SP枠 ボア・ハンコック/ウタ/ナミ(発売初動は各10〜20万円台の高値→調整) / 女性キャラ特集の再録系ブースター / BOX定価¥5,280 / <a href="box/eb-03.html" style="color:#b91c1c;font-weight:700">当サイト実データのBOX買取最高¥23,000(9店舗)</a></div></div>
+<div class="hero" style="display:flex;gap:18px;align-items:center"><picture><source srcset="/images/boxes/eb-03.webp" type="image/webp"><img src="/images/boxes/eb-03.jpg" alt="エクストラブースター「ONE PIECE Heroines Edition」(EB-03) パッケージ画像" width="150" height="150" loading="eager" decoding="async" style="width:130px;height:auto;border-radius:8px;flex-shrink:0"></picture><div><div class="stat-label">看板当たり ウタ SEC コミックパラレル 買取相場(2026年7月時点)</div><div class="stat-big">約¥70,000</div><div class="stat-sub">唯一のコミパラ(ウタ1種)6カートンに1枚 / SP枠 ボア・ハンコック/ウタ/ナミ(発売初動は各10〜20万円台の高値→調整) / 女性キャラ特集の再録系ブースター / BOX定価¥5,280 / <a href="box/eb-03.html" style="color:#b91c1c;font-weight:700">当サイト実データのBOX買取最高¥23,000(9店舗)</a></div></div></div>
 
 <p>2025年10月25日発売の <strong><a href="box/eb-03.html" style="color:var(--accent)">ONE PIECEカードゲーム エクストラブースター「ONE PIECE Heroines Edition」(EB-03)</a></strong> は、女性キャラクターを特集した再録系エクストラブースター第3弾です。唯一の新規コミパラ<strong>「ウタ(SEC)」</strong>が実質的なトップレアで、ボア・ハンコック・ウタ・ナミのSPも人気枠です。本記事では、<strong>当たりカードのランキング・買取相場・封入率・見分け方</strong>を実データで整理します。BOXの最新買取価格は <a href="box/eb-03.html">Heroines Edition 個別ページ</a> で毎日更新しています。</p>
 

diff --git a/onepiece/box/eb-01.html b/onepiece/box/eb-01.html
@@ -97,8 +97,8 @@ body{font-family:-apple-system,BlinkMacSystemFont,"メイリオ","Hiragino Sans"
 <div class="breadcrumb"><a href="/">ホーム</a> &gt; <a href="/onepiece">ワンピ買取チェッカー</a> &gt; エクストラブースター「メモリアルコレクション」【EB-01】</div>
 <div class="main-card">
 <h2>エクストラブースター「メモリアルコレクション」【EB-01】</h2>
-<div class="meta"><span>更新: 2026/07/15 05:58</span><span>エクストラブースター</span></div>
-
+<div class="meta"><span>更新: 2026/07/15 09:13</span><span>エクストラブースター</span></div>
+<div style="text-align:center;margin:4px 0 18px"><picture><source srcset="/images/boxes/eb-01.webp" type="image/webp"><img src="/images/boxes/eb-01.jpg" alt="エクストラブースター「メモリアルコレクション」【EB-01】 パッケージ画像 買取価格比較" width="240" height="240" loading="lazy" decoding="async" style="max-width:240px;width:60%;height:auto;border-radius:8px"></picture></div>
 
 <p class="product-desc">エクストラブースター第1弾。初のエクストラブースター。</p>
 

diff --git a/onepiece/box/eb-03.html b/onepiece/box/eb-03.html
@@ -97,8 +97,8 @@ body{font-family:-apple-system,BlinkMacSystemFont,"メイリオ","Hiragino Sans"
 <div class="breadcrumb"><a href="/">ホーム</a> &gt; <a href="/onepiece">ワンピ買取チェッカー</a> &gt; エクストラブースター「ONE PIECE Heroines Edition」【EB-03】</div>
 <div class="main-card">
 <h2>エクストラブースター「ONE PIECE Heroines Edition」【EB-03】</h2>
-<div class="meta"><span>更新: 2026/07/15 05:58</span><span>エクストラブースター</span></div>
-
+<div class="meta"><span>更新: 2026/07/15 09:13</span><span>エクストラブースター</span></div>
+<div style="text-align:center;margin:4px 0 18px"><picture><source srcset="/images/boxes/eb-03.webp" type="image/webp"><img src="/images/boxes/eb-03.jpg" alt="エクストラブースター「ONE PIECE Heroines Edition」【EB-03】 パッケージ画像 買取価格比較" width="240" height="240" loading="lazy" decoding="async" style="max-width:240px;width:60%;height:auto;border-radius:8px"></picture></div>
 
 <p class="product-desc">エクストラブースター第3弾。女性キャラを特集した再録系ブースター。</p>
 

diff --git a/onepiece/box/op-16.html b/onepiece/box/op-16.html
@@ -97,7 +97,7 @@ body{font-family:-apple-system,BlinkMacSystemFont,"メイリオ","Hiragino Sans"
 <div class="breadcrumb"><a href="/">ホーム</a> &gt; <a href="/onepiece">ワンピ買取チェッカー</a> &gt; ブースターパック「決戦の刻」【OP-16】</div>
 <div class="main-card">
 <h2>ブースターパック「決戦の刻」【OP-16】</h2>
-<div class="meta"><span>更新: 2026/07/15 05:58</span><span>通常ブースター</span></div>
+<div class="meta"><span>更新: 2026/07/15 09:13</span><span>通常ブースター</span></div>
 <div style="text-align:center;margin:4px 0 18px"><picture><source srcset="/images/boxes/op-16.webp" type="image/webp"><img src="/images/boxes/op-16.jpg" alt="ブースターパック「決戦の刻」【OP-16】 パッケージ画像 買取価格比較" width="240" height="240" loading="lazy" decoding="async" style="max-width:240px;width:60%;height:auto;border-radius:8px"></picture></div>
 
 <p class="product-desc">通常ブースター第16弾。パラマウント戦争(頂上戦争)がテーマ。日本版に『トレジャーレア』が登場した弾。</p>

diff --git a/onepiece/box/op-13.html b/onepiece/box/op-13.html
@@ -97,8 +97,8 @@ body{font-family:-apple-system,BlinkMacSystemFont,"メイリオ","Hiragino Sans"
 <div class="breadcrumb"><a href="/">ホーム</a> &gt; <a href="/onepiece">ワンピ買取チェッカー</a> &gt; ブースターパック「受け継がれる意志」【OP-13】</div>
 <div class="main-card">
 <h2>ブースターパック「受け継がれる意志」【OP-13】</h2>
-<div class="meta"><span>更新: 2026/07/15 05:58</span><span>通常ブースター</span></div>
-
+<div class="meta"><span>更新: 2026/07/15 09:13</span><span>通常ブースター</span></div>
+<div style="text-align:center;margin:4px 0 18px"><picture><source srcset="/images/boxes/op-13.webp" type="image/webp"><img src="/images/boxes/op-13.jpg" alt="ブースターパック「受け継がれる意志」【OP-13】 パッケージ画像 買取価格比較" width="240" height="240" loading="lazy" decoding="async" style="max-width:240px;width:60%;height:auto;border-radius:8px"></picture></div>
 
 <p class="product-desc">通常ブースター第13弾。新レアリティ『レッドスーパーパラレル』が登場。</p>
 

diff --git a/onepiece/box/st-30.html b/onepiece/box/st-30.html
@@ -97,7 +97,7 @@ body{font-family:-apple-system,BlinkMacSystemFont,"メイリオ","Hiragino Sans"
 <div class="breadcrumb"><a href="/">ホーム</a> &gt; <a href="/onepiece">ワンピ買取チェッカー</a> &gt; スタートデッキEX ルフィ＆エース【ST-30】</div>
 <div class="main-card">
 <h2>スタートデッキEX ルフィ＆エース【ST-30】</h2>
-<div class="meta"><span>更新: 2026/07/15 05:58</span><span>スタートデッキ</span></div>
+<div class="meta"><span>更新: 2026/07/15 09:13</span><span>スタートデッキ</span></div>
 <div style="text-align:center;margin:4px 0 18px"><picture><source srcset="/images/boxes/st-30.webp" type="image/webp"><img src="/images/boxes/st-30.jpg" alt="スタートデッキEX ルフィ＆エース【ST-30】 パッケージ画像 買取価格比較" width="240" height="240" loading="lazy" decoding="async" style="max-width:240px;width:60%;height:auto;border-radius:8px"></picture></div>
 
 <p class="product-desc">EX仕様のスタートデッキ。頂上戦争テーマ。SR2種確定＋全17種パラレル封入。</p>

diff --git a/onepiece/box/op-09.html b/onepiece/box/op-09.html
@@ -97,8 +97,8 @@ body{font-family:-apple-system,BlinkMacSystemFont,"メイリオ","Hiragino Sans"
 <div class="breadcrumb"><a href="/">ホーム</a> &gt; <a href="/onepiece">ワンピ買取チェッカー</a> &gt; ブースターパック「新たなる皇帝」【OP-09】</div>
 <div class="main-card">
 <h2>ブースターパック「新たなる皇帝」【OP-09】</h2>
-<div class="meta"><span>更新: 2026/07/15 05:58</span><span>通常ブースター</span></div>
-
+<div class="meta"><span>更新: 2026/07/15 09:13</span><span>通常ブースター</span></div>
+<div style="text-align:center;margin:4px 0 18px"><picture><source srcset="/images/boxes/op-09.webp" type="image/webp"><img src="/images/boxes/op-09.jpg" alt="ブースターパック「新たなる皇帝」【OP-09】 パッケージ画像 買取価格比較" width="240" height="240" loading="lazy" decoding="async" style="max-width:240px;width:60%;height:auto;border-radius:8px"></picture></div>
 
 <p class="product-desc">通常ブースター第9弾。</p>
 
